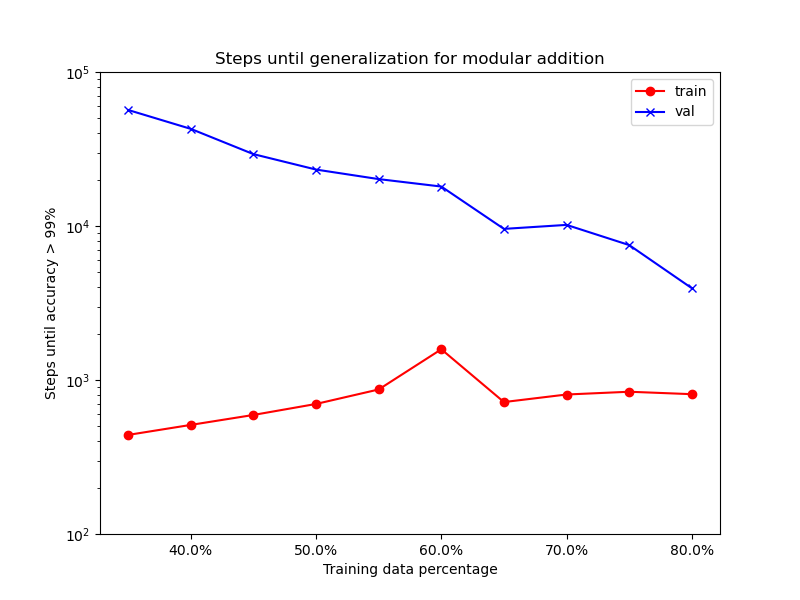
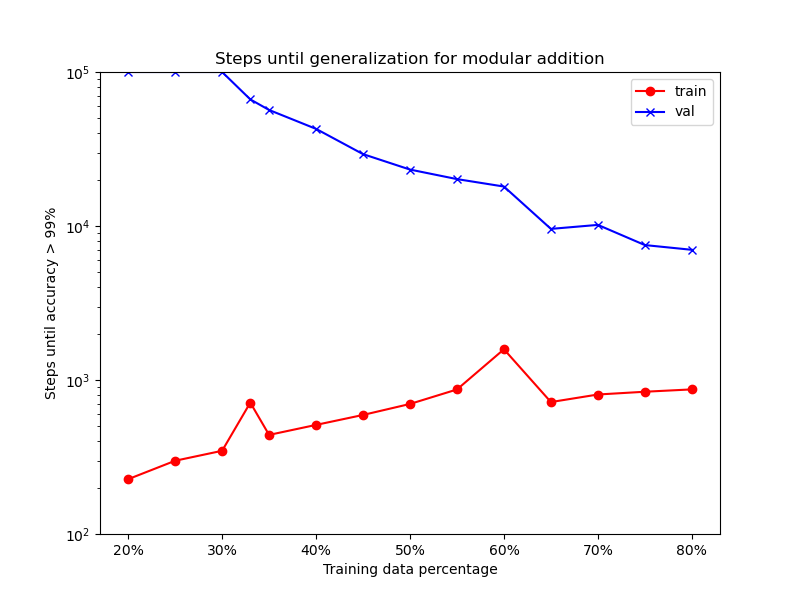
finish experiments on alpha

diff --git a/scripts/draw_alpha_steps.py b/scripts/draw_alpha_steps.py
@@ -67,12 +67,15 @@ def load_generalization_steps(expt_dir):
         for row in reversed(rows):
             if row["val_accuracy"] != "": # val stage
                 if (float(row["val_accuracy"]) < 99
-                    and target_row is not None
+                    # and target_row is not None
                     ):
                     break
                 target_row = row
         
-        required_val_steps = int(target_row["step"])
+        if target_row is None:
+            required_val_steps = 99999
+        else: 
+            required_val_steps = int(target_row["step"])
         
     return train_data_pct, required_training_steps, required_val_steps
 
